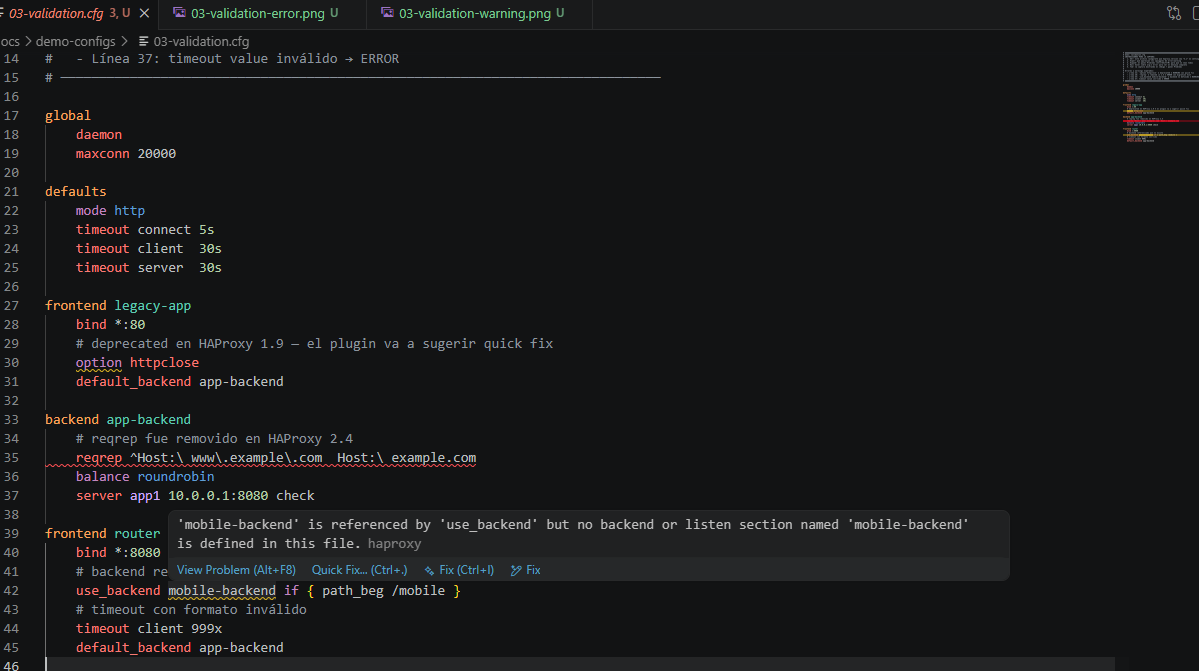
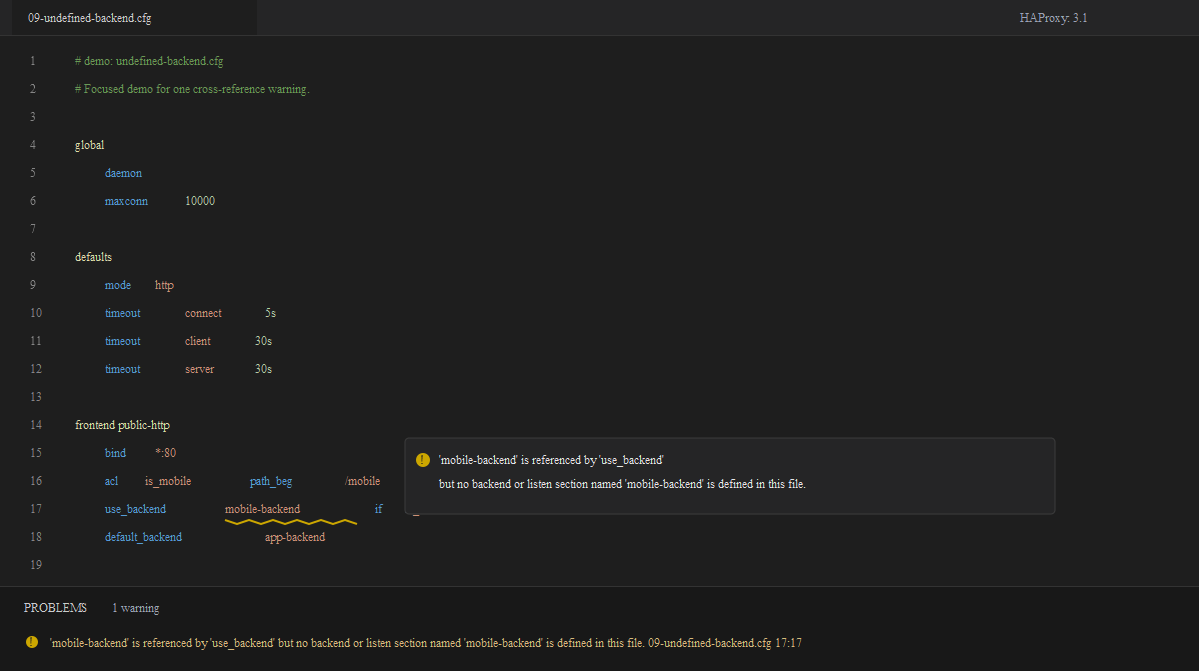
docs(demo): recapture undefined backend asset (#29)

diff --git a/README.md b/README.md
@@ -54,7 +54,7 @@ Select your HAProxy version and get real-time diagnostics tailored to it. Direct
 
 Focused demo config: [`docs/demo-configs/09-undefined-backend.cfg`](docs/demo-configs/09-undefined-backend.cfg)
 
-![Undefined backend diagnostic demo](docs/images/09-undefined-backend.gif)
+![Undefined backend diagnostic screenshot](docs/images/09-undefined-backend.gif)
 
 ---
 